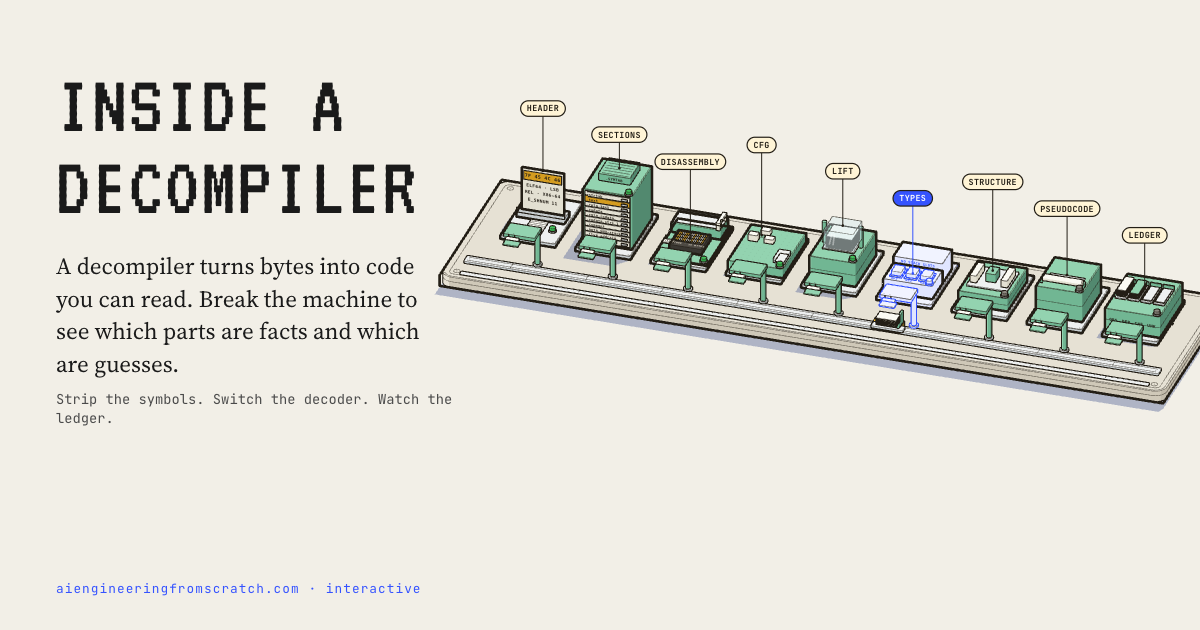
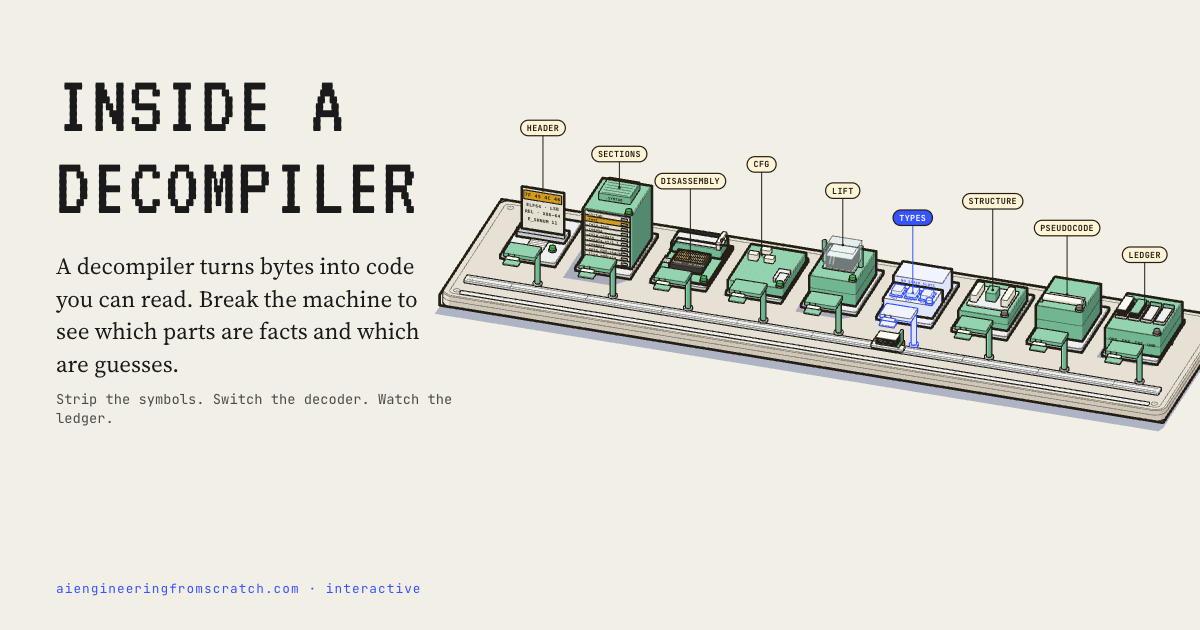
fix(decompiler-machine): review findings on palette, labels, fit and counts
- Read pal and labels before load() rewrites the URL, validate pal with
  Object.hasOwn, and keep pal in shared links after a swatch click.
- Fit the view box to the assembled and exploded poses with the labels
  measured, so exploded pills stay inside the stage.
- Hide the routing board count until the CFG stage, and count every edge
  between kept blocks, self-loops included.
- Starter template: write ?labels=0 on toggle, drop the filter at zero
  wobble, and remove the old [data-off] opacity rule.
- Dark-theme active pills use dark text for contrast.
- The ink reference says to redraw pills when the anchor or hot state
  changes.

Changed region(s): [[0.3392, 0.1508, 1.0, 0.6937]]

diff --git a/site/inside-a-decompiler.html b/site/inside-a-decompiler.html
@@ -182,6 +182,7 @@
 .iso-ink .pill text{fill:var(--ink);font-family:var(--font-mono,var(--anatomy-mono,Menlo,Consolas,monospace));font-weight:700;letter-spacing:.04em}
 .iso-ink .pill.on rect{fill:var(--pill-on)}
 .iso-ink .pill.on text{fill:#fff}
+:root[data-theme="dark"] .iso-ink .pill.on text,.iso-ink[data-theme="dark"] .pill.on text{fill:var(--paper)}
 .iso-ink .pill.on path.lead{stroke:var(--pill-on)}
 .iso-ink .pill.on .lead-dot{fill:var(--pill-on)}
 :root.iso-nolabels .iso-ink [data-pills]{display:none}
@@ -1431,6 +1432,7 @@ const INK_CSS = `
 .iso-ink .pill text{fill:var(--ink);font-family:var(--font-mono,var(--anatomy-mono,Menlo,Consolas,monospace));font-weight:700;letter-spacing:.04em}
 .iso-ink .pill.on rect{fill:var(--pill-on)}
 .iso-ink .pill.on text{fill:#fff}
+:root[data-theme="dark"] .iso-ink .pill.on text,.iso-ink[data-theme="dark"] .pill.on text{fill:var(--paper)}
 .iso-ink .pill.on path.lead{stroke:var(--pill-on)}
 .iso-ink .pill.on .lead-dot{fill:var(--pill-on)}
 :root.iso-nolabels .iso-ink [data-pills]{display:none}
@@ -1625,7 +1627,8 @@ function graphSvg(variant) {
   const pos = graphLayout(variant);
   const live = variant.blocks.filter((block) => block.live);
   const dead = variant.blocks.filter((block) => !block.live);
-  const routed = variant.edges.filter((edge) => pos[edge.f] && pos[edge.t] && edge.f !== edge.t);
+  const kept = variant.edges.filter((edge) => pos[edge.f] && pos[edge.t]);
+  const routed = kept.filter((edge) => edge.f !== edge.t);
   const edges = routed
     .map((edge, i) => {
       const [fx, fy] = pos[edge.f];
@@ -1634,8 +1637,8 @@ function graphSvg(variant) {
       return k.onTop([[fx, fy], [fx, lane], [tx, lane], [tx, ty]], BOARD.z + 0.05, P);
     })
     .join("");
-  const count = `${live.length} BLOCK${live.length === 1 ? "" : "S"} · ${routed.length} EDGE${routed.length === 1 ? "" : "S"}`;
-  const out = [topText(x, BOARD.y0 + 1.6, BOARD.z, count, 2.6), `<g data-edges style="display:none">${Ln(edges, { tone: "hi" })}</g>`];
+  const count = `${live.length} BLOCK${live.length === 1 ? "" : "S"} · ${kept.length} EDGE${kept.length === 1 ? "" : "S"}`;
+  const out = [`<g data-count style="display:none">${topText(x, BOARD.y0 + 1.6, BOARD.z, count, 2.6)}</g>`, `<g data-edges style="display:none">${Ln(edges, { tone: "hi" })}</g>`];
   const cubes = live
     .map((block) => [pos[block.s], block])
     .sort((a, b) => depth([a[0][0], a[0][1], 0]) - depth([b[0][0], b[0][1], 0]))
@@ -2218,6 +2221,8 @@ function beatsFor(sim) {
   return beats;
 }
 
+const startParams = new URLSearchParams(location.search);
+const startPalette = startParams.get("pal");
 const state = { config: M.decode(location.search), sim: null, beats: [], bi: 0, bt: 0, pose: null, playing: false, stopAt: -1, shown: -1, done: false, speed: 1, selected: null, explode: { target: 0, shares: {} } };
 D.ASSEMBLIES.forEach((asm) => (state.explode.shares[asm] = { x: 0, v: 0 }));
 
@@ -2404,6 +2409,8 @@ function draw() {
   });
   const edges = graph.querySelector("[data-edges]");
   if (edges) edges.style.display = pose.edges ? "" : "none";
+  const count = graph.querySelector("[data-count]");
+  if (count) count.style.display = pose.edges ? "" : "none";
   const dead = graph.querySelector("[data-dead]");
   if (dead) dead.style.display = pose.dead === 1 ? "" : "none";
   live("bin").style.display = pose.dead === 2 ? "" : "none";
@@ -2536,6 +2543,7 @@ function syncButtons() {
 function writeUrl() {
   const params = new URLSearchParams(M.encode(state.config));
   if (document.documentElement.classList.contains("iso-nolabels")) params.set("labels", "0");
+  if (typeof palette === "string" && palette !== "mint") params.set("pal", palette);
   const query = params.toString();
   const keep = /[?&]still\b/.test(location.search) ? (query ? "&still" : "still") : "";
   history.replaceState(null, "", location.pathname + (query || keep ? "?" + query + keep : "") + location.hash);
@@ -2674,7 +2682,7 @@ stage.addEventListener("keydown", (event) => {
 const PALETTES = Ink.PALETTES;
 const figure = document.querySelector(".dm-figure");
 const blend = Ink.blend;
-let palette = PALETTES[new URLSearchParams(location.search).get("pal")] ? new URLSearchParams(location.search).get("pal") : "mint";
+var palette = startPalette && Object.hasOwn(PALETTES, startPalette) ? startPalette : "mint";
 function paint() {
   const dark = document.documentElement.getAttribute("data-theme") === "dark";
   const [l, m, d] = PALETTES[palette].map((hex) => (dark ? blend(hex, "#1f1c18", 0.38) : hex));
@@ -2686,7 +2694,7 @@ function paint() {
     button.setAttribute("aria-pressed", String(button.dataset.dmPal === palette));
   });
 }
-$$("[data-dm-pal]").forEach((button) => button.addEventListener("click", () => ((palette = button.dataset.dmPal), paint())));
+$$("[data-dm-pal]").forEach((button) => button.addEventListener("click", () => ((palette = button.dataset.dmPal), paint(), writeUrl())));
 new MutationObserver(paint).observe(document.documentElement, { attributes: true, attributeFilter: ["data-theme"] });
 paint();
 const wobble = svg.querySelector("[data-wobble]");
@@ -2701,7 +2709,7 @@ function setLabels(on) {
   writeUrl();
 }
 $("#dm-labels").addEventListener("change", (event) => setLabels(event.target.checked));
-if (new URLSearchParams(location.search).get("labels") === "0") document.documentElement.classList.add("iso-nolabels"), ($("#dm-labels").checked = false);
+if (startParams.get("labels") === "0") document.documentElement.classList.add("iso-nolabels"), ($("#dm-labels").checked = false);
 
 window.__machine = {
   state,
@@ -2728,12 +2736,24 @@ window.__machine = {
 };
 load(state.config);
 function fitView() {
-  const box = layer.getBBox();
-  const tags = pillLayer.getBBox();
-  const x0 = Math.min(box.x, tags.width ? tags.x : box.x) - 6;
-  const y0 = Math.min(box.y, tags.height ? tags.y : box.y) - 6;
-  const x1 = Math.max(box.x + box.width, tags.x + tags.width) + 6;
-  const y1 = box.y + box.height + 4;
+  const root = document.documentElement;
+  const hidden = root.classList.contains("iso-nolabels");
+  root.classList.remove("iso-nolabels");
+  const shares = Object.values(state.explode.shares);
+  const saved = shares.map((share) => share.x);
+  const boxes = [0, 1].map((x) => {
+    shares.forEach((share) => (share.x = x));
+    draw();
+    return [layer.getBBox(), pillLayer.getBBox()];
+  });
+  shares.forEach((share, i) => (share.x = saved[i]));
+  draw();
+  if (hidden) root.classList.add("iso-nolabels");
+  const all = boxes.flat().filter((box) => box.width && box.height);
+  const x0 = Math.min(...all.map((box) => box.x)) - 6;
+  const y0 = Math.min(...all.map((box) => box.y)) - 6;
+  const x1 = Math.max(...all.map((box) => box.x + box.width)) + 6;
+  const y1 = Math.max(...boxes.map(([box]) => box.y + box.height)) + 4;
   svg.setAttribute("viewBox", `${x0.toFixed(1)} ${y0.toFixed(1)} ${(x1 - x0).toFixed(1)} ${(y1 - y0).toFixed(1)}`);
 }
 fitView();

diff --git a/scripts/decompiler-machine/live.js b/scripts/decompiler-machine/live.js
@@ -187,6 +187,8 @@ function beatsFor(sim) {
   return beats;
 }
 
+const startParams = new URLSearchParams(location.search);
+const startPalette = startParams.get("pal");
 const state = { config: M.decode(location.search), sim: null, beats: [], bi: 0, bt: 0, pose: null, playing: false, stopAt: -1, shown: -1, done: false, speed: 1, selected: null, explode: { target: 0, shares: {} } };
 D.ASSEMBLIES.forEach((asm) => (state.explode.shares[asm] = { x: 0, v: 0 }));
 
@@ -373,6 +375,8 @@ function draw() {
   });
   const edges = graph.querySelector("[data-edges]");
   if (edges) edges.style.display = pose.edges ? "" : "none";
+  const count = graph.querySelector("[data-count]");
+  if (count) count.style.display = pose.edges ? "" : "none";
   const dead = graph.querySelector("[data-dead]");
   if (dead) dead.style.display = pose.dead === 1 ? "" : "none";
   live("bin").style.display = pose.dead === 2 ? "" : "none";
@@ -505,6 +509,7 @@ function syncButtons() {
 function writeUrl() {
   const params = new URLSearchParams(M.encode(state.config));
   if (document.documentElement.classList.contains("iso-nolabels")) params.set("labels", "0");
+  if (typeof palette === "string" && palette !== "mint") params.set("pal", palette);
   const query = params.toString();
   const keep = /[?&]still\b/.test(location.search) ? (query ? "&still" : "still") : "";
   history.replaceState(null, "", location.pathname + (query || keep ? "?" + query + keep : "") + location.hash);
@@ -643,7 +648,7 @@ stage.addEventListener("keydown", (event) => {
 const PALETTES = Ink.PALETTES;
 const figure = document.querySelector(".dm-figure");
 const blend = Ink.blend;
-let palette = PALETTES[new URLSearchParams(location.search).get("pal")] ? new URLSearchParams(location.search).get("pal") : "mint";
+var palette = startPalette && Object.hasOwn(PALETTES, startPalette) ? startPalette : "mint";
 function paint() {
   const dark = document.documentElement.getAttribute("data-theme") === "dark";
   const [l, m, d] = PALETTES[palette].map((hex) => (dark ? blend(hex, "#1f1c18", 0.38) : hex));
@@ -655,7 +660,7 @@ function paint() {
     button.setAttribute("aria-pressed", String(button.dataset.dmPal === palette));
   });
 }
-$$("[data-dm-pal]").forEach((button) => button.addEventListener("click", () => ((palette = button.dataset.dmPal), paint())));
+$$("[data-dm-pal]").forEach((button) => button.addEventListener("click", () => ((palette = button.dataset.dmPal), paint(), writeUrl())));
 new MutationObserver(paint).observe(document.documentElement, { attributes: true, attributeFilter: ["data-theme"] });
 paint();
 const wobble = svg.querySelector("[data-wobble]");
@@ -670,7 +675,7 @@ function setLabels(on) {
   writeUrl();
 }
 $("#dm-labels").addEventListener("change", (event) => setLabels(event.target.checked));
-if (new URLSearchParams(location.search).get("labels") === "0") document.documentElement.classList.add("iso-nolabels"), ($("#dm-labels").checked = false);
+if (startParams.get("labels") === "0") document.documentElement.classList.add("iso-nolabels"), ($("#dm-labels").checked = false);
 
 window.__machine = {
   state,
@@ -697,12 +702,24 @@ window.__machine = {
 };
 load(state.config);
 function fitView() {
-  const box = layer.getBBox();
-  const tags = pillLayer.getBBox();
-  const x0 = Math.min(box.x, tags.width ? tags.x : box.x) - 6;
-  const y0 = Math.min(box.y, tags.height ? tags.y : box.y) - 6;
-  const x1 = Math.max(box.x + box.width, tags.x + tags.width) + 6;
-  const y1 = box.y + box.height + 4;
+  const root = document.documentElement;
+  const hidden = root.classList.contains("iso-nolabels");
+  root.classList.remove("iso-nolabels");
+  const shares = Object.values(state.explode.shares);
+  const saved = shares.map((share) => share.x);
+  const boxes = [0, 1].map((x) => {
+    shares.forEach((share) => (share.x = x));
+    draw();
+    return [layer.getBBox(), pillLayer.getBBox()];
+  });
+  shares.forEach((share, i) => (share.x = saved[i]));
+  draw();
+  if (hidden) root.classList.add("iso-nolabels");
+  const all = boxes.flat().filter((box) => box.width && box.height);
+  const x0 = Math.min(...all.map((box) => box.x)) - 6;
+  const y0 = Math.min(...all.map((box) => box.y)) - 6;
+  const x1 = Math.max(...all.map((box) => box.x + box.width)) + 6;
+  const y1 = Math.max(...boxes.map(([box]) => box.y + box.height)) + 4;
   svg.setAttribute("viewBox", `${x0.toFixed(1)} ${y0.toFixed(1)} ${(x1 - x0).toFixed(1)} ${(y1 - y0).toFixed(1)}`);
 }
 fitView();

diff --git a/site/skills.html b/site/skills.html
@@ -558,7 +558,7 @@
             <div class="sl-pane"><h4><span>Loaded for this request</span><span data-loaded-total></span></h4><ol class="sl-loaded" data-loaded></ol></div>
             <div class="sl-meter"><p><span>Context used</span><span data-meter-label></span></p><div class="sl-track"><i data-meter></i></div></div>
             <p class="sl-verdict" data-verdict aria-live="polite"></p>
-            <script type="application/json" class="sl-data">{"skills":[{"name":"start-learning","tokens":92},{"name":"find-your-level","tokens":79},{"name":"course-guide","tokens":108},{"name":"learn","tokens":102},{"name":"check-understanding","tokens":51},{"name":"build-project","tokens":113},{"name":"learn-mcp","tokens":95},{"name":"learn-agent-skills","tokens":86},{"name":"learn-reverse-engineering","tokens":125},{"name":"claude-certification","tokens":132},{"name":"mcpa-certification","tokens":115},{"name":"course-style","tokens":121},{"name":"blueprint-figure","tokens":104},{"name":"motion-figure","tokens":120},{"name":"isometric-explainer","tokens":112},{"name":"write-manual","tokens":116}],"requests":[{"say":"find my level","skill":"find-your-level","files":[{"path":"find-your-level/SKILL.md","tokens":1873},{"path":"references/answer-key.md","tokens":373}]},{"say":"teach me MCP","skill":"learn-mcp","files":[{"path":"learn-mcp/SKILL.md","tokens":2271}]},{"say":"draw a figure of the request path","skill":"blueprint-figure","files":[{"path":"blueprint-figure/SKILL.md","tokens":2412},{"path":"references/kinds.md","tokens":1272},{"path":"references/grammar.md","tokens":1824},{"path":"references/checks.md","tokens":1218}]},{"say":"write a manual for this tool","skill":"write-manual","files":[{"path":"write-manual/SKILL.md","tokens":3291},{"path":"references/manual-json.md","tokens":1554},{"path":"references/section-template.md","tokens":940},{"path":"references/research-and-sources.md","tokens":1232},{"path":"references/prose-rules.md","tokens":899}]}],"full":74538}</script>
+            <script type="application/json" class="sl-data">{"skills":[{"name":"start-learning","tokens":92},{"name":"find-your-level","tokens":79},{"name":"course-guide","tokens":108},{"name":"learn","tokens":102},{"name":"check-understanding","tokens":51},{"name":"build-project","tokens":113},{"name":"learn-mcp","tokens":95},{"name":"learn-agent-skills","tokens":86},{"name":"learn-reverse-engineering","tokens":125},{"name":"claude-certification","tokens":132},{"name":"mcpa-certification","tokens":115},{"name":"course-style","tokens":121},{"name":"blueprint-figure","tokens":104},{"name":"motion-figure","tokens":120},{"name":"isometric-explainer","tokens":112},{"name":"write-manual","tokens":116}],"requests":[{"say":"find my level","skill":"find-your-level","files":[{"path":"find-your-level/SKILL.md","tokens":1873},{"path":"references/answer-key.md","tokens":373}]},{"say":"teach me MCP","skill":"learn-mcp","files":[{"path":"learn-mcp/SKILL.md","tokens":2271}]},{"say":"draw a figure of the request path","skill":"blueprint-figure","files":[{"path":"blueprint-figure/SKILL.md","tokens":2412},{"path":"references/kinds.md","tokens":1272},{"path":"references/grammar.md","tokens":1824},{"path":"references/checks.md","tokens":1218}]},{"say":"write a manual for this tool","skill":"write-manual","files":[{"path":"write-manual/SKILL.md","tokens":3291},{"path":"references/manual-json.md","tokens":1554},{"path":"references/section-template.md","tokens":940},{"path":"references/research-and-sources.md","tokens":1232},{"path":"references/prose-rules.md","tokens":899}]}],"full":74559}</script>
           </figure><span>Live: pick a request. Token counts are file bytes divided by 4, read from the real skill files.</span></div>
           <footer>
             <button type="button" class="sk-copy" data-copy="npx skills add rohitg00/ai-engineering-from-scratch --skill motion-figure" aria-label="Copy the install command for motion-figure">Copy install</button>

diff --git a/.claude/skills/isometric-explainer/templates/live.js b/.claude/skills/isometric-explainer/templates/live.js
@@ -58,14 +58,20 @@ function beatsFor(sim) {
 const state = { config: M.decode(location.search), sim: null, beats: [], bi: 0, bt: 0, pose: null, playing: false, stopAt: -1, shown: -1, done: false, explode: { target: 0, shares: {} } };
 Object.keys(D.EXPLODE).forEach((asm) => (state.explode.shares[asm] = { x: 0, v: 0 }));
 
+function writeUrl() {
+  const params = new URLSearchParams(M.encode(state.config));
+  if (document.documentElement.classList.contains("iso-nolabels")) params.set("labels", "0");
+  const query = params.toString();
+  history.replaceState(null, "", location.pathname + (query ? "?" + query : "") + location.hash);
+}
+
 function load(config, { autoplay = false } = {}) {
   state.config = M.configOf(config);
   state.sim = M.simulate(state.config);
   state.beats = beatsFor(state.sim);
   Object.assign(state, { pose: freshPose(), bi: 0, bt: 0, shown: -1, done: false, stopAt: -1 });
   $("#ie-cache").checked = state.config.cache;
-  const query = M.encode(state.config);
-  history.replaceState(null, "", location.pathname + (query ? "?" + query : "") + location.hash);
+  writeUrl();
   readouts(null);
   draw();
   autoplay ? play() : pause();
@@ -276,10 +282,18 @@ stage.addEventListener("keydown", (event) => {
   event.preventDefault();
 });
 
-$("#ie-wobble").addEventListener("input", (event) => svg.querySelector("[data-wobble]").setAttribute("scale", event.target.value));
-const setLabels = (on) => (document.documentElement.classList.toggle("iso-nolabels", !on), ($("#ie-labels").checked = on));
+function setWobble(value) {
+  svg.querySelector("[data-wobble]").setAttribute("scale", String(value));
+  value > 0 ? layer.setAttribute("filter", "url(#iso-hand)") : layer.removeAttribute("filter");
+}
+$("#ie-wobble").addEventListener("input", (event) => setWobble(Number(event.target.value)));
+function setLabels(on) {
+  document.documentElement.classList.toggle("iso-nolabels", !on);
+  $("#ie-labels").checked = on;
+  writeUrl();
+}
 $("#ie-labels").addEventListener("change", (event) => setLabels(event.target.checked));
-if (new URLSearchParams(location.search).get("labels") === "0") setLabels(false);
+if (new URLSearchParams(location.search).get("labels") === "0") document.documentElement.classList.add("iso-nolabels"), ($("#ie-labels").checked = false);
 window.__machine = { state, load, play, pause, step, toggleExplode, seek: (n) => ((state.stopAt = n), (state.playing = true), advance(1e6), (state.playing = false), draw()), finish: () => ((state.playing = true), advance(1e6), draw()) };
 load(state.config);
 if (!still.matches && !/[?&]still\b/.test(location.search)) setTimeout(() => state.shown < 0 && play(), 900);

diff --git a/skills/isometric-explainer/templates/live.js b/skills/isometric-explainer/templates/live.js
@@ -58,14 +58,20 @@ function beatsFor(sim) {
 const state = { config: M.decode(location.search), sim: null, beats: [], bi: 0, bt: 0, pose: null, playing: false, stopAt: -1, shown: -1, done: false, explode: { target: 0, shares: {} } };
 Object.keys(D.EXPLODE).forEach((asm) => (state.explode.shares[asm] = { x: 0, v: 0 }));
 
+function writeUrl() {
+  const params = new URLSearchParams(M.encode(state.config));
+  if (document.documentElement.classList.contains("iso-nolabels")) params.set("labels", "0");
+  const query = params.toString();
+  history.replaceState(null, "", location.pathname + (query ? "?" + query : "") + location.hash);
+}
+
 function load(config, { autoplay = false } = {}) {
   state.config = M.configOf(config);
   state.sim = M.simulate(state.config);
   state.beats = beatsFor(state.sim);
   Object.assign(state, { pose: freshPose(), bi: 0, bt: 0, shown: -1, done: false, stopAt: -1 });
   $("#ie-cache").checked = state.config.cache;
-  const query = M.encode(state.config);
-  history.replaceState(null, "", location.pathname + (query ? "?" + query : "") + location.hash);
+  writeUrl();
   readouts(null);
   draw();
   autoplay ? play() : pause();
@@ -276,10 +282,18 @@ stage.addEventListener("keydown", (event) => {
   event.preventDefault();
 });
 
-$("#ie-wobble").addEventListener("input", (event) => svg.querySelector("[data-wobble]").setAttribute("scale", event.target.value));
-const setLabels = (on) => (document.documentElement.classList.toggle("iso-nolabels", !on), ($("#ie-labels").checked = on));
+function setWobble(value) {
+  svg.querySelector("[data-wobble]").setAttribute("scale", String(value));
+  value > 0 ? layer.setAttribute("filter", "url(#iso-hand)") : layer.removeAttribute("filter");
+}
+$("#ie-wobble").addEventListener("input", (event) => setWobble(Number(event.target.value)));
+function setLabels(on) {
+  document.documentElement.classList.toggle("iso-nolabels", !on);
+  $("#ie-labels").checked = on;
+  writeUrl();
+}
 $("#ie-labels").addEventListener("change", (event) => setLabels(event.target.checked));
-if (new URLSearchParams(location.search).get("labels") === "0") setLabels(false);
+if (new URLSearchParams(location.search).get("labels") === "0") document.documentElement.classList.add("iso-nolabels"), ($("#ie-labels").checked = false);
 window.__machine = { state, load, play, pause, step, toggleExplode, seek: (n) => ((state.stopAt = n), (state.playing = true), advance(1e6), (state.playing = false), draw()), finish: () => ((state.playing = true), advance(1e6), draw()) };
 load(state.config);
 if (!still.matches && !/[?&]still\b/.test(location.search)) setTimeout(() => state.shown < 0 && play(), 900);

diff --git a/.claude/skills/isometric-explainer/references/colour-and-ink.md b/.claude/skills/isometric-explainer/references/colour-and-ink.md
@@ -61,7 +61,7 @@ A part that a setting switches off keeps its shape and takes the board colours: 
 - Point the pills outward into empty space, above the machine. They must not cover a moving part or printed text. Long rows of stations need two or three rows of pills: compute each pill height from a fixed point on the station roof, and step the rows in turn.
 - Aim for 3 to 6 labels. A pipeline with more stations than that can have one pill for each station when the pills sit in clear space. Check every event of a run in the sweep frames.
 - The pill turns the accent colour while its station is hot.
-- Draw the pills in a `<g data-pills>` group after the depth-sorted layer, and redraw them only when their text changes.
+- Draw the pills in a `<g data-pills>` group after the depth-sorted layer, and redraw them when their text, their projected anchor or their hot state changes. The anchor moves when the machine explodes.
 - Give the page a Labels switch, and read `?labels=0`. The class `iso-nolabels` on the root hides them.
 
 ## Wobble and colour controls

diff --git a/skills/isometric-explainer/references/colour-and-ink.md b/skills/isometric-explainer/references/colour-and-ink.md
@@ -61,7 +61,7 @@ A part that a setting switches off keeps its shape and takes the board colours: 
 - Point the pills outward into empty space, above the machine. They must not cover a moving part or printed text. Long rows of stations need two or three rows of pills: compute each pill height from a fixed point on the station roof, and step the rows in turn.
 - Aim for 3 to 6 labels. A pipeline with more stations than that can have one pill for each station when the pills sit in clear space. Check every event of a run in the sweep frames.
 - The pill turns the accent colour while its station is hot.
-- Draw the pills in a `<g data-pills>` group after the depth-sorted layer, and redraw them only when their text changes.
+- Draw the pills in a `<g data-pills>` group after the depth-sorted layer, and redraw them when their text, their projected anchor or their hot state changes. The anchor moves when the machine explodes.
 - Give the page a Labels switch, and read `?labels=0`. The class `iso-nolabels` on the root hides them.
 
 ## Wobble and colour controls
